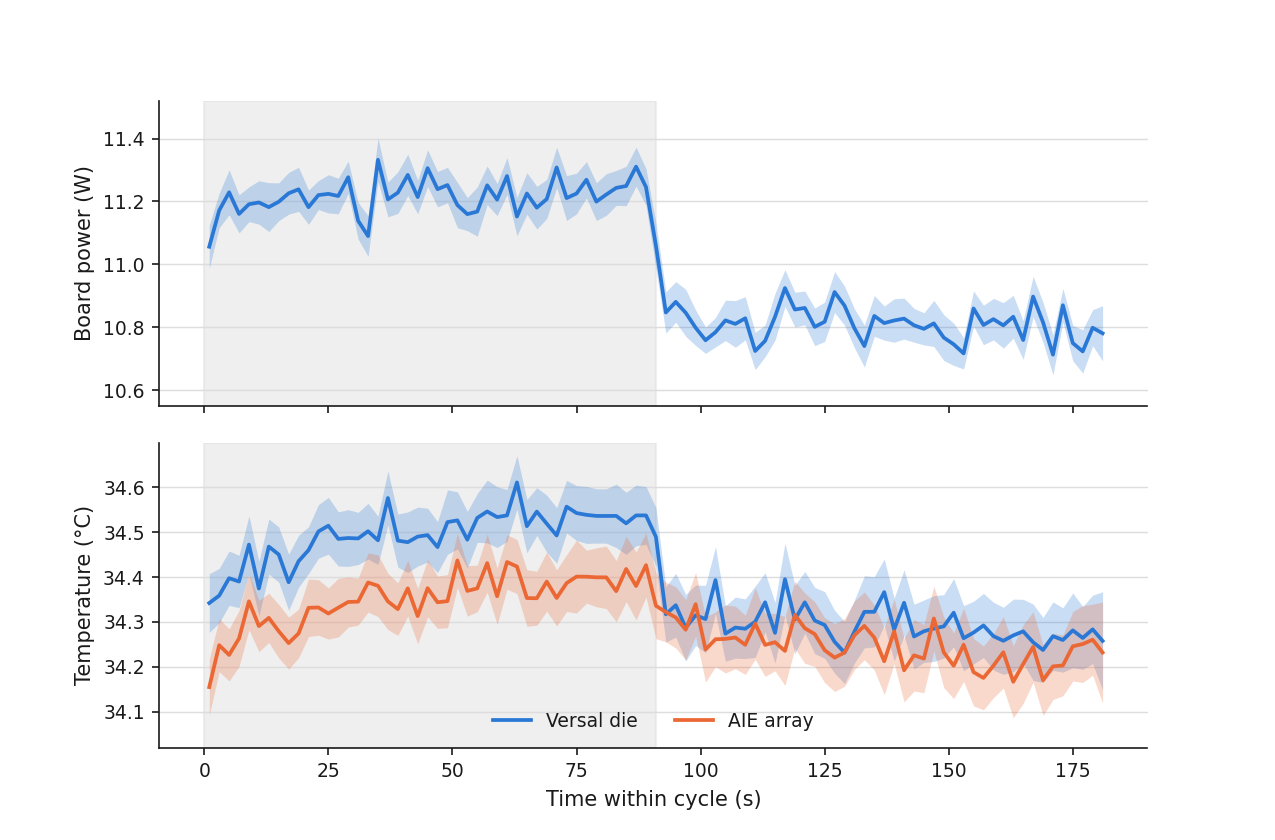
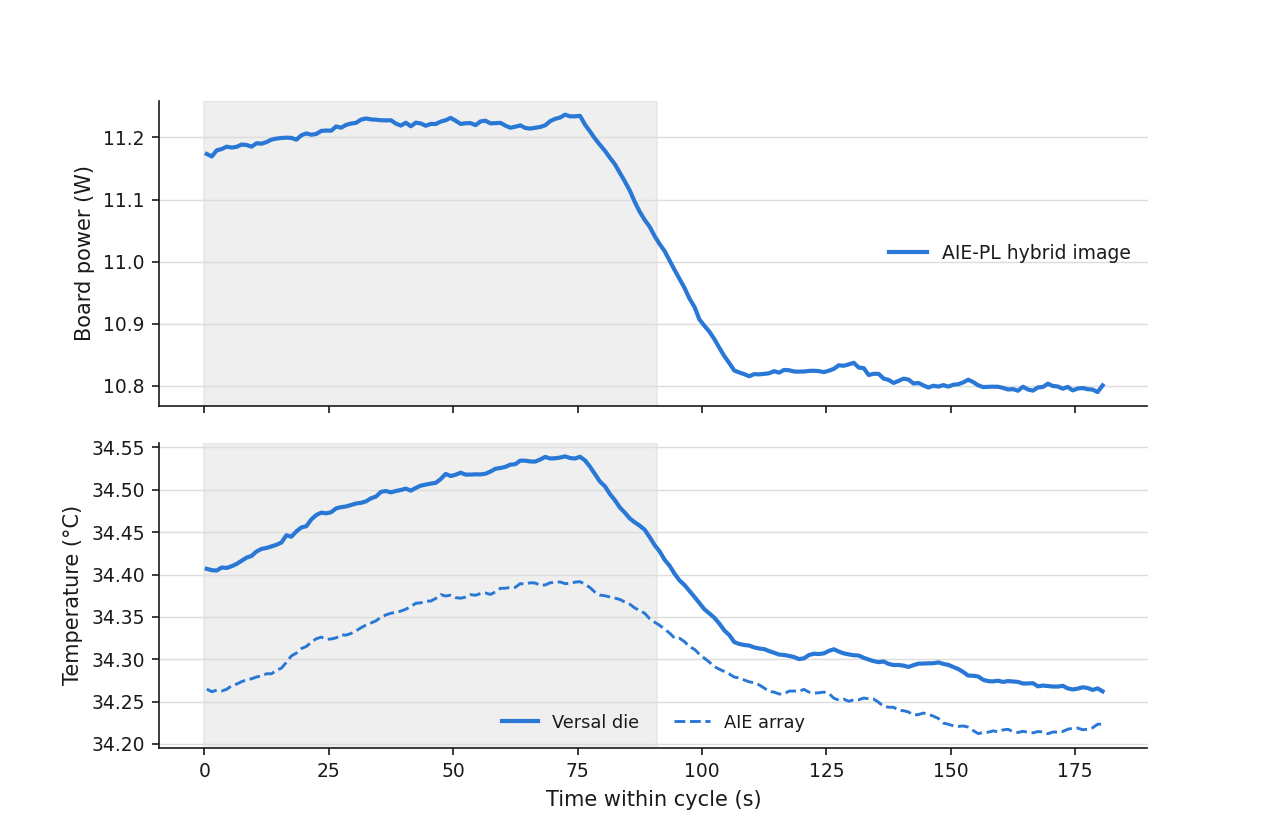
figs: replot folded lock-in cycle with the power/temp chart config
Same figure size, styling, colors, smoothing and legend layout as
plot_board_power_temp.py, with the folded lock-in data substituted;
error bands dropped. Rolling window centered so the sharp ON/OFF step
is not dragged across the smoothing width.

diff --git a/scripts/plot_lockin_folded.py b/scripts/plot_lockin_folded.py
@@ -1,11 +1,11 @@
 #!/usr/bin/env python3
-"""Folded ON/OFF load cycle (lock-in): board power over die temperatures.
+"""Folded ON/OFF load cycle (lock-in), plotted with the same configuration
+as plot_board_power_temp.py: board power on top, die temperatures below,
+white background, black text, no title, shaded load-ON region.
 
-Paper style, matching plot_board_power_temp.py: white background, black
-text, no title, capitalized labels. Cycles are folded onto one common
-cycle axis and averaged; the shaded band is +/-1 standard error across
-repetitions, so the band -- not the sample-to-sample jitter -- shows the
-precision of the measurement.
+Sixteen ON/OFF cycles are folded onto one common cycle axis and averaged,
+which cancels ambient drift; the same 30-sample rolling mean as the time
+series is then applied.
 """
 import csv
 import numpy as np
@@ -17,7 +17,7 @@ CSV = "/home/snehadri/repos/aie-unsupervised-search/figs/board_thermal_lockin_lo
 PHASES = "/home/snehadri/repos/aie-unsupervised-search/figs/board_thermal_lockin_phases.txt"
 BLUE, ORANGE = "#2a78d6", "#eb6834"
 BLACK, GRID = "#1a1a1a", "#dddddd"
-BIN = 2.0        # s per folded bin
+BIN = 1.0        # s per folded bin (matches the raw sampling cadence)
 
 rows = list(csv.DictReader(open(CSV)))
 epochs = np.array([float(r["epoch"]) for r in rows])
@@ -32,10 +32,9 @@ for line in open(PHASES):
 ons = [(s, e) for s, e in ons if e is not None]
 period = np.median([ons[i + 1][0] - ons[i][0] for i in range(len(ons) - 1)])
 on_len = np.median([e - s for s, e in ons])
-print(f"{len(ons)} cycles, period {period:.0f} s, ON {on_len:.0f} s")
 
 def fold(key):
-    """Return (bin centers, mean, standard error) folded over cycles."""
+    """Mean over cycles, per folded time bin."""
     vals = np.array([float(r[key]) for r in rows])
     nb = int(np.ceil(period / BIN))
     acc = [[] for _ in range(nb)]
@@ -46,9 +45,18 @@ def fold(key):
                 acc[min(int(t / BIN), nb - 1)].append(v)
     centers = (np.arange(nb) + 0.5) * BIN
     mean = np.array([np.mean(a) if a else np.nan for a in acc])
-    sem = np.array([np.std(a, ddof=1) / np.sqrt(len(a)) if len(a) > 1 else np.nan
-                    for a in acc])
-    return centers, mean, sem
+    return centers, mean
+
+def roll(xs, k=30):
+    """Centered rolling mean: a trailing window would drag the sharp ON/OFF
+    step across ~k seconds and misstate when the transition happened."""
+    h = k // 2
+    return [np.nanmean(xs[max(0, i - h):min(len(xs), i + h + 1)])
+            for i in range(len(xs))]
+
+def col(key):
+    c, m = fold(key)
+    return c, roll(m)
 
 fig, (ax1, ax2) = plt.subplots(2, 1, figsize=(8.5, 5.6), dpi=150, sharex=True,
                                gridspec_kw={"hspace": 0.12})
@@ -62,35 +70,21 @@ for ax in (ax1, ax2):
     ax.set_axisbelow(True)
     ax.axvspan(0, on_len, color=GRID, alpha=0.45, zorder=0)
 
-def band(ax, key, color, label):
-    c, m, e = fold(key)
-    ax.plot(c, m, color=color, lw=1.8, label=label, zorder=3)
-    ax.fill_between(c, m - e, m + e, color=color, alpha=0.25, lw=0, zorder=2)
-    return c, m, e
-
-# --- power ---
-c, m, e = band(ax1, "total_W", BLUE, "Board power")
+# --- power panel ---
+t, p = col("total_W")
+ax1.plot(t, p, color=BLUE, lw=2, label="AIE-PL hybrid image")
 ax1.set_ylabel("Board power (W)", color=BLACK, fontsize=10)
-on = (c > 35) & (c < on_len)
-off = c > on_len + 20
-dP = np.nanmean(m[on]) - np.nanmean(m[off])
-sP = np.sqrt(np.nanmean(e[on] ** 2) / on.sum() + np.nanmean(e[off] ** 2) / off.sum())
-ax1.set_ylim(10.55, 11.52)   # headroom so the step is centered
+ax1.legend(frameon=False, fontsize=9, labelcolor=BLACK, loc="center right")
 
-# --- temperatures ---
-band(ax2, "versal", BLUE, "Versal die")
-band(ax2, "aie", ORANGE, "AIE array")
+# --- temperature panel ---
+t, v = col("versal")
+ax2.plot(t, v, color=BLUE, lw=2, label="Versal die")
+t, a = col("aie")
+ax2.plot(t, a, color=BLUE, lw=1.4, ls="--", label="AIE array")
 ax2.set_ylabel("Temperature (°C)", color=BLACK, fontsize=10)
 ax2.set_xlabel("Time within cycle (s)", color=BLACK, fontsize=10)
-ax2.set_ylim(34.02, None)
-ax2.legend(frameon=False, fontsize=9, labelcolor=BLACK, ncol=2, loc="lower center")
-
-c2, m2, e2 = fold("versal")
-on2 = (c2 > 35) & (c2 < on_len)
-off2 = c2 > on_len + 20
-dT = np.nanmean(m2[on2]) - np.nanmean(m2[off2])
-print(f"ON-OFF power delta:  {dP*1000:+.0f} mW +/- {sP*1000:.0f}")
-print(f"ON-OFF Versal dT:    {dT:+.3f} C")
+ax2.legend(frameon=False, fontsize=8.5, labelcolor=BLACK, ncol=2,
+           loc="lower center")
 
 fig.tight_layout()
 out = "/home/snehadri/repos/aie-unsupervised-search/figs/board_lockin_folded_cycle.png"
